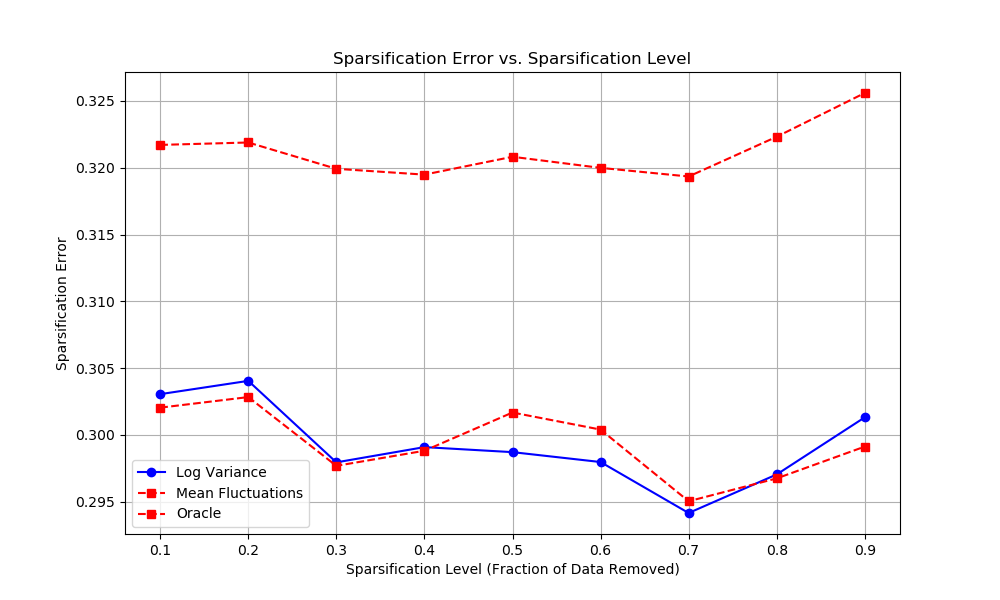
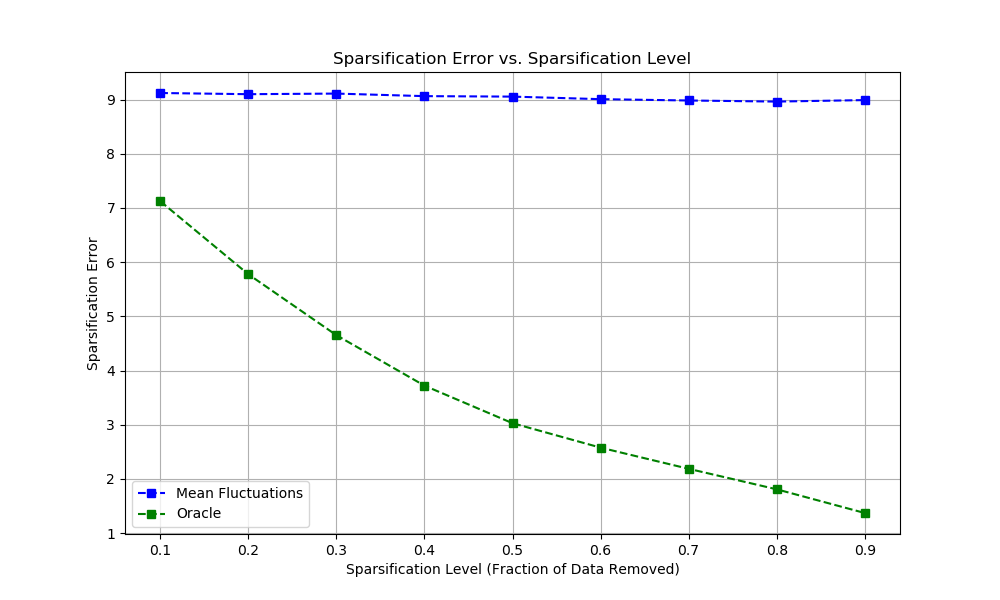
uncertainty through deviation between particles

diff --git a/sample/generate_w_motion_input.py b/sample/generate_w_motion_input.py
@@ -212,10 +212,7 @@ def main():
                 # log_variance = log_variance.view(-1, *log_variance.shape[2:]).permute(0, 2, 3, 1) # [bs, 21, 3, 196]
 
                 mean_fluctuations = mean_fluctuations.cpu().permute(0, 2, 3, 1).float() # [bs, 1, 196, 263]
-                uncertainty_factor_1 = compute_uncertainty_factor(mean_fluctuations, n_joints) # [bs, 22, 196]
-                # mean_fluctuations = mean_fluctuations[..., 4:(n_joints - 1) * 3 + 4] # [bs, 1, 196, 63]
-                # mean_fluctuations = mean_fluctuations.view(mean_fluctuations.shape[:-1] + (-1, 3)) # [bs, 1, 196, 21, 3]
-                # mean_fluctuations = mean_fluctuations.view(-1, *mean_fluctuations.shape[2:]).permute(0, 2, 3, 1) # [bs, 21, 3, 196]
+                uncertainty_factor_1 = compute_uncertainty_factor(mean_fluctuations, n_joints) # [bs, 1, 196, 22]
 
             input_motions_reshaped = data.dataset.t2m_dataset.inv_transform(input_motions.cpu().permute(0, 2, 3, 1)).float()
             input_motions_reshaped = recover_from_ric(input_motions_reshaped, n_joints)
@@ -267,20 +264,19 @@ def main():
 
         # Compute AUSE
         # if args.learning_var:
-        #     sparsification_errors_lg, oracle, sparsification_levels_lg = calculate_ause(per_joint_errors, log_variance, model_kwargs['y']['lengths'], 'sparsification_error_plot.png')
-        #     sparsification_errors_mf, oracle, sparsification_levels_mf = calculate_ause(per_joint_errors, mean_fluctuations, model_kwargs['y']['lengths'], 'sparsification_error_plot.png')
+        #     # sparsification_errors_lg, oracle, sparsification_levels_lg = calculate_ause(per_joint_errors, log_variance, model_kwargs['y']['lengths'], 'sparsification_error_plot.png')
+        #     sparsification_errors_mf, oracle, sparsification_levels_mf = calculate_ause(per_joint_errors, uncertainty_factor_1, model_kwargs['y']['lengths'], 'sparsification_error_plot.png')
         #     plt.figure(figsize=(10, 6))
-        #     plt.plot(sparsification_levels_lg, sparsification_errors_lg, marker='o', linestyle='-', color='b', label='Log Variance')
-        #     plt.plot(sparsification_levels_mf, sparsification_errors_mf, marker='s', linestyle='--', color='r', label='Mean Fluctuations')
-        #     plt.plot(sparsification_levels_lg, oracle, marker='s', linestyle='--', color='r', label='Oracle')
+        #     # plt.plot(sparsification_levels_lg, sparsification_errors_lg, marker='o', linestyle='-', color='b', label='Log Variance')
+        #     plt.plot(sparsification_levels_mf, sparsification_errors_mf, marker='s', linestyle='--', color='b', label='Mean Fluctuations')
+        #     plt.plot(sparsification_levels_mf, oracle, marker='s', linestyle='--', color='g', label='Oracle')
         #     plt.xlabel('Sparsification Level (Fraction of Data Removed)')
         #     plt.ylabel('Sparsification Error')
         #     plt.title('Sparsification Error vs. Sparsification Level')
         #     plt.legend()
         #     plt.grid(True)
-        #     plt.savefig('sparsification_error_plot.png')
+        #     plt.savefig('sparsification_error_plot1.png')
         #     plt.close()
-
 
         # exit()
 
@@ -307,15 +303,30 @@ def main():
             print(f'---> MPJPE at {time_ms} s = {avg_error*1000:.4f}')
     
     all_motions = np.concatenate(all_motions, axis=0) # [num_samples*num_repetitions, njoints, 3, seqlen]
-    all_motions = all_motions[:total_num_samples]  # [num_samples, njoints, 3, seqlen]
+    all_motions = all_motions[:total_num_samples]  # [num_samples*num_repetitions, njoints, 3, seqlen]
+    
+    # Compute uncertainty factor based on standard deviation between repetitions
+    all_motions_tensor = torch.from_numpy(all_motions)
+    uncertainty_particle = []
+    for sample_i in range(args.num_samples):
+        sample_motions = all_motions_tensor[sample_i::args.num_samples]  # Get all repetitions for this sample
+        std_dev = torch.std(sample_motions, dim=0, keepdim=True)  # Compute standard deviation across repetitions
+        std_dev = std_dev.repeat(args.num_repetitions, 1, 1, 1)  # [num_samples*num_repetitions, njoints, 3, seqlen]
+        uncertainty_particle.append(std_dev)
+    
+    uncertainty_particle = torch.stack(uncertainty_particle, dim=0)  # [num_samples, num_repetitions, njoints, 3, seqlen]
+    uncertainty_particle = uncertainty_particle.permute(1, 0, 2, 3, 4)  # [num_repetitions, num_samples, njoints, 3, seqlen]
+    uncertainty_particle = uncertainty_particle.reshape(-1, *uncertainty_particle.shape[2:])  # [num_samples*num_repetitions, njoints, 3, seqlen]
+    uncertainty_particle = uncertainty_particle.permute(0, 2, 3, 1)  # [num_samples*num_repetitions, 3, seqlen, njoints]
+    
     all_text = all_text[:total_num_samples]
     all_lengths = np.concatenate(all_lengths, axis=0)[:total_num_samples]
     if args.learning_var:
         all_variances = np.concatenate(all_variances, axis=0)
-        all_variances = all_variances[:total_num_samples] # [num_samples, njoints-1, 3, seqlen]
+        all_variances = all_variances[:total_num_samples] # [num_samples*num_repetitions, 1, seqlen, njoints]
         all_mean_fluctuations = np.concatenate(all_mean_fluctuations, axis=0)
-        all_mean_fluctuations = all_mean_fluctuations[:total_num_samples] # [num_samples, njoints-1, 3, seqlen]
-
+        all_mean_fluctuations = all_mean_fluctuations[:total_num_samples] # [num_samples*num_repetitions, 1, seqlen, njoints]
+        all_uncertainty_particle = uncertainty_particle.cpu().numpy()
     if os.path.exists(out_path):
         shutil.rmtree(out_path)
     os.makedirs(out_path)
@@ -324,7 +335,7 @@ def main():
     print(f"saving results file to [{npy_path}]")
     if args.learning_var:
         np.save(npy_path,
-            {'motion': all_motions, 'variances': all_variances, 'text': all_text, 'lengths': all_lengths,
+            {'motion': all_motions, 'variances': all_uncertainty_particle, 'text': all_text, 'lengths': all_lengths,
              'num_samples': args.num_samples, 'num_repetitions': args.num_repetitions})
     else:
         np.save(npy_path,
@@ -354,8 +365,17 @@ def main():
             input_motion_reshaped = input_motions_reshaped_np[sample_i].transpose(2, 0, 1)[:length]
             # print(f"motion shape: {motion.shape}") (196, 22, 3)
             if args.learning_var:
-                variance = all_variances[rep_i*args.batch_size + sample_i].transpose(2, 0, 1)[:length] # [seqlen, njoints-1, 3]
+                variance = all_variances[rep_i*args.batch_size + sample_i].transpose(2, 0, 1)[:length]  # [njoints, 1, seqlen]
+                # Apply smoothing to mean_fluctuation over time
+                window_size = 3  # Adjust this value to control the amount of smoothing
                 mean_fluctuation = all_mean_fluctuations[rep_i*args.batch_size + sample_i].transpose(2, 0, 1)[:length] # [seqlen, njoints-1, 3]
+                particle_uncertainty = all_uncertainty_particle[rep_i*args.batch_size + sample_i].transpose(2, 0, 1)[:length] # [seqlen, njoints, 3]
+                # mean_fluctuation_smoothed = np.zeros_like(mean_fluctuation)
+                # for i in range(mean_fluctuation.shape[0]):  # Iterate over joints
+                #     for j in range(mean_fluctuation.shape[1]):  # Iterate over dimensions
+                #         mean_fluctuation_smoothed[i, j, :] = np.convolve(mean_fluctuation[i, j, :], np.ones(window_size)/window_size, mode='same')
+                # mean_fluctuation = mean_fluctuation_smoothed
+
             save_file = sample_file_template.format(sample_i, rep_i)
             print(sample_print_template.format(caption, sample_i, rep_i, save_file))
             animation_save_path = os.path.join(out_path, save_file)
@@ -363,7 +383,7 @@ def main():
             assert motion.shape[0] == input_motion_reshaped.shape[0], f"Frame mismatch: joints has {motion.shape[0]} frames, gt_data has {input_motions_reshaped.shape[0]} frames."
             if args.learning_var:
                 # plot_3d_motion_with_gt(animation_save_path, skeleton, motion, dataset=args.dataset, variance=variance, gt_data=input_motion_reshaped, title=caption, fps=fps, emb_motion_len=args.emb_motion_len) #modified plot_3d_motion to include gt input motions
-                plot_3d_motion_with_gt(animation_save_path, skeleton, motion, dataset=args.dataset, variance=mean_fluctuation, gt_data=input_motion_reshaped, title=caption, fps=fps, emb_motion_len=args.emb_motion_len) #modified plot_3d_motion to include gt input motions
+                plot_3d_motion_with_gt(animation_save_path, skeleton, motion, dataset=args.dataset, variance=particle_uncertainty, gt_data=input_motion_reshaped, title=caption, fps=fps, emb_motion_len=args.emb_motion_len) #modified plot_3d_motion to include gt input motions
             else:
                 plot_3d_motion_with_gt(animation_save_path, skeleton, motion, dataset=args.dataset, gt_data=input_motion_reshaped, title=caption, fps=fps, emb_motion_len=args.emb_motion_len) #modified plot_3d_motion to include gt input motions
 

diff --git a/diffusion/gaussian_diffusion.py b/diffusion/gaussian_diffusion.py
@@ -17,6 +17,7 @@ from copy import deepcopy
 from diffusion.nn import mean_flat, sum_flat
 from diffusion.losses import normal_kl, discretized_gaussian_log_likelihood
 from data_loaders.humanml.scripts import motion_process
+from data_loaders.humanml.utils.uncertainty_factors import compute_relative_fluctuation, compute_fluctuation_duration, compute_mean_absolute_change, compute_max_change, compute_cumulative_variance
 
 def get_named_beta_schedule(schedule_name, num_diffusion_timesteps, scale_betas=1.):
     """
@@ -706,37 +707,47 @@ class GaussianDiffusion:
             if dump_steps is not None and i in dump_steps:
                 dump.append(deepcopy(sample["sample"]))
             final = sample
-            if i >= 20 and (i % 5 == 0 or i > 45):  # Track every 5th step from 20 to 45, and all steps from 45 onwards
+            if i >= 30 and i % 2 == 0:  # Track every 5th step from 20 to 45, and all steps from 45 onwards
                 means.append(sample["sample"].detach().cpu())
         if dump_steps is not None:
             return dump
         if self.model_var_type in [ModelVarType.LEARNED, ModelVarType.LEARNED_RANGE]:
             means = torch.stack(means, dim=0)  # Shape: [10, bs, 263, 1, 196]
 
-            # UNCOMMENT THIS TO PLOT MEAN EVOLUTION
-            means = means.cpu().permute(0, 1, 3, 4, 2).float() # [10, bs, 1, 196, 263]
-            means = means[..., 4:(22 - 1) * 3 + 4] # [10, bs, 1, 196, 63]
-            means = means.view(means.shape[:-1] + (-1, 3)) # [10, bs, 1, 196, 21, 3]
-            means = means.view(10, -1, *means.shape[3:]).permute(0, 1, 3, 4, 2) # [10, bs, 21, 3, 196]
-            means = means.mean(dim=3) # [10, bs, 21, 196]
-            means_frame_100 = means[:, :, :, 99]  # Shape: [10, bs, 21]
-            plt.figure(figsize=(12, 8))
-            for joint in range(21):
-                plt.plot(range(10), means_frame_100[:, 0, joint], label=f'Joint {joint}')
-            plt.xlabel('Diffusion Steps (40 to 50)')
-            plt.ylabel('Mean Value')
-            plt.title('Evolution of Mean Values for 21 Joints at Frame 100')
-            plt.legend(bbox_to_anchor=(1.05, 1), loc='upper left')
-            plt.tight_layout()
-            plot_path = 'mean_evolution_plot.png'
-            plt.savefig(plot_path)
-            plt.close()
-            exit()
+            # # Plot mean evolution
+            # means = means.cpu().permute(0, 1, 3, 4, 2).float() # [50, bs, 1, 196, 263]
+            # means = means[..., 4:(22 - 1) * 3 + 4] # [50, bs, 1, 196, 63]
+            # means = means.view(means.shape[:-1] + (-1, 3)) # [50, bs, 1, 196, 21, 3]
+            # means = means.view(50, -1, *means.shape[3:]).permute(0, 1, 3, 4, 2) # [50, bs, 21, 3, 196]
+            # means = means.mean(dim=3) # [50, bs, 21, 196]
+
+            # # Select last 20 steps and only even steps
+            # means = means[-20::2]
+
+            # plt.figure(figsize=(16, 12))
+            # selected_joints = [0, 10, 11, 12, 20]
+            # frames = [24, 49, 74, 99]  # Frames 25, 50, 75, 100 (0-indexed)
+            
+            # for i, frame in enumerate(frames):
+            #     plt.subplot(2, 2, i+1)
+            #     means_frame = means[:, 0, :, frame]  # Shape: [10, 21]
+                
+            #     for joint in selected_joints:
+            #         plt.plot(range(30, 50, 2), means_frame[:, joint], label=f'Joint {joint}')
+                
+            #     plt.xlabel('Diffusion Steps (30 to 50, even steps)')
+            #     plt.ylabel('Mean Value')
+            #     plt.title(f'Evolution of Mean Values for Selected Joints at Frame {frame+1}')
+            #     plt.legend()
+            
+            # plt.tight_layout()
+            # plot_path = 'mean_evolution_plot_selected_joints_multiple_frames.png'
+            # plt.savefig(plot_path)
+            # plt.close()
+            # exit()
 
             # Compute the standard deviation across the first dimension (time steps)
-            mean_fluctuations = torch.std(means, dim=0)  # Resulting shape: [bs, 263, 1, 196]
-            # print('mean_fluctuations', mean_fluctuations.shape) #([10, 263, 1, 196])
-            #keep track of the mean AND variance
+            mean_fluctuations = compute_cumulative_variance(means)
             return final["sample"], final["log_variance"], mean_fluctuations
         else:
             return final["sample"]

diff --git a/diffusion/losses.py b/diffusion/losses.py
@@ -13,19 +13,15 @@ def calculate_ause(per_joint_errors, uncertainty_factor, lengths, output_path, n
     Compute the Area Under Sparsification Error (AUSE) to assess the quality of the uncertainty factors.
 
     :param per_joint_errors: Tensor of per-joint errors. Shape: [bs, 196*22]
-    :param uncertainty_factor: Tensor of uncertainty factors. Shape: [bs, 21, 3, 196]
+    :param uncertainty_factor: Tensor of uncertainty factors. Shape: # [bs, 1, 196, 22]
     :param lengths: tensor of sequence actual length for each batch. Shape: [bs]
     :param n_bins: Number of bins to use for the AUSE calculation.
     """
-    B, nb_joints, _, nb_frames = uncertainty_factor.shape  # B=bs, nb_joints=21, nb_frames=196
-    
-    # Reduce uncertainty_factor over the 3D space dimension (x, y, z)
-    uncertainty_factor = uncertainty_factor.mean(dim=2)  # New shape: [bs, 21, 196]
-    uncertainty_factor = uncertainty_factor.permute(0, 2, 1)  # New shape: [bs, 196, 21]
+    B, _, nb_frames, nb_joints = uncertainty_factor.shape  # B=bs, nb_frames=196, nb_joints=22
 
-    per_joint_errors = per_joint_errors.view(B, nb_frames, nb_joints+1)  # Shape: [bs, 196, 22]
-    # Exclude the root joint (joint 0)
-    per_joint_errors = per_joint_errors[:, :, 1:]  # Shape: [bs, 196, 21]
+    uncertainty_factor = uncertainty_factor.squeeze(1)  # Shape: [bs, 196, 22]
+
+    per_joint_errors = per_joint_errors.view(B, nb_frames, nb_joints)  # Shape: [bs, 196, 22]
 
     # Find the shortest length in the batch
     shortest_length = lengths.min().item()
@@ -42,7 +38,7 @@ def calculate_ause(per_joint_errors, uncertainty_factor, lengths, output_path, n
     sorted_indices_by_uncertainty = uncertainty_factor.argsort()
     sorted_errors_by_uncertainty = per_joint_errors[sorted_indices_by_uncertainty]  # Sorted per-joint errors by uncertainty
     sorted_indices_by_error = per_joint_errors.argsort()
-    sorted_errors_by_error = uncertainty_factor[sorted_indices_by_error]  # Sorted per-joint errors by error  
+    sorted_errors_by_error = per_joint_errors[sorted_indices_by_error]  # Sorted per-joint errors by error  
 
     # Calculate the total error (mean of all per-joint errors)
     total_error = sorted_errors_by_uncertainty.mean().item()
@@ -59,15 +55,18 @@ def calculate_ause(per_joint_errors, uncertainty_factor, lengths, output_path, n
         
         sparsified_errors = sorted_errors_by_uncertainty[:threshold_index]  # Shape: [threshold_index]
         sparsified_error = sparsified_errors.mean().item()
+        # uncertainty_ration = (total_error - sparsified_error) / sparsified_error
 
         sparsified_errors_by_error = sorted_errors_by_error[:threshold_index]  # Shape: [threshold_index]
         sparsified_error_by_error = sparsified_errors_by_error.mean().item()
+        # error_ratio = (total_error - sparsified_error_by_error) / sparsified_error_by_error
 
-        # Calculate the sparsification error
-        sparsification_error = total_error - sparsified_error
-        # sparsification_errors.append(sparsification_error)
         sparsification_errors.append(sparsified_error)
         sparsification_errors_by_error.append(sparsified_error_by_error)
+
+        # sparsification_errors.append(uncertainty_ration)
+        # sparsification_errors_by_error.append(error_ratio)
+
         sparsification_levels.append(i/n_bins)
 
     return sparsification_errors, sparsification_errors_by_error, sparsification_levels

diff --git a/data_loaders/humanml/utils/uncertainty_factors.py b/data_loaders/humanml/utils/uncertainty_factors.py
@@ -1,0 +1,90 @@
+import torch
+
+def compute_mean_absolute_change(means):
+    """
+    Compute the mean absolute change across successive denoising steps.
+    
+    Args:
+        means (torch.Tensor): The mean values of shape [10, bs, 21, 196].
+        
+    Returns:
+        torch.Tensor: The mean absolute change, shape [bs, 21, 196].
+    """
+    # Compute the difference between successive denoising steps
+    changes = torch.abs(means[1:] - means[:-1])  # Shape: [9, bs, 21, 196]
+    
+    # Average the absolute changes across time steps
+    mean_absolute_change = changes.mean(dim=0)  # Shape: [bs, 21, 196]
+    return mean_absolute_change
+
+def compute_max_change(means):
+    """
+    Compute the maximum change across successive denoising steps.
+    
+    Args:
+        means (torch.Tensor): The mean values of shape [10, bs, 21, 196].
+        
+    Returns:
+        torch.Tensor: The maximum change, shape [bs, 21, 196].
+    """
+    # Compute the difference between successive denoising steps
+    changes = torch.abs(means[1:] - means[:-1])  # Shape: [9, bs, 21, 196]
+    
+    # Compute the maximum change across denoising steps
+    max_change = changes.max(dim=0)[0]  # Shape: [bs, 21, 196]
+    return max_change
+
+def compute_cumulative_variance(means):
+    """
+    Compute the cumulative variance across denoising steps.
+    
+    Args:
+        means (torch.Tensor): The mean values of shape [10, bs, 21, 196].
+        
+    Returns:
+        torch.Tensor: The cumulative variance, shape [bs, 21, 196].
+    """
+    # Compute the variance across the last denoising steps
+    cumulative_variance = torch.var(means, dim=0)  # Shape: [bs, 21, 196]
+    return cumulative_variance
+
+def compute_fluctuation_duration(means, threshold=0.05):
+    """
+    Compute the duration of fluctuations based on a threshold.
+    
+    Args:
+        means (torch.Tensor): The mean values of shape [10, bs, 21, 196].
+        threshold (float): The threshold value for significant fluctuations.
+        
+    Returns:
+        torch.Tensor: The duration of significant fluctuations, shape [bs, 21, 196].
+    """
+    # Compute the difference between successive denoising steps
+    changes = torch.abs(means[1:] - means[:-1])  # Shape: [9, bs, 21, 196]
+    
+    # Find where changes exceed a threshold
+    fluctuation_mask = changes > threshold
+    
+    # Count the number of steps where fluctuations exceed the threshold
+    fluctuation_duration = fluctuation_mask.sum(dim=0)  # Shape: [bs, 21, 196]
+    return fluctuation_duration
+
+def compute_relative_fluctuation(means):
+    """
+    Compute the relative fluctuation (percentage change) across denoising steps.
+    
+    Args:
+        means (torch.Tensor): The mean values of shape [10, bs, 21, 196].
+        
+    Returns:
+        torch.Tensor: The relative fluctuation, shape [bs, 21, 196].
+    """
+    # Compute the difference between successive denoising steps
+    changes = torch.abs(means[1:] - means[:-1])  # Shape: [9, bs, 21, 196]
+    
+    # Normalize the change by the previous step to get relative change
+    relative_fluctuation = changes / torch.abs(means[:-1] + 1e-6)  # Avoid division by zero
+    
+    # Compute the average relative fluctuation
+    mean_relative_fluctuation = relative_fluctuation.mean(dim=0)  # Shape: [bs, 21, 196]
+    return mean_relative_fluctuation

diff --git a/data_loaders/humanml/utils/plot_script.py b/data_loaders/humanml/utils/plot_script.py
@@ -431,7 +431,7 @@ def plot_3d_motion_with_gt(save_path, kinematic_tree, joints, title, dataset, va
                 joint_position = data[index, joint_idx]
                 # joint_variance = np.exp(0.5*np.mean(variance[index, joint_idx]))
                 # joint_variance = np.exp(0.5*variance[joint_idx, 0, index])
-                joint_variance = 0.3*variance[joint_idx, 0, index]
+                joint_variance = 10*np.mean(variance[joint_idx, :, index])
                 radius = joint_variance / 3
                 sphere = draw_sphere(joint_position, radius, color='c', alpha=0.1)
                 spheres.append(sphere)

diff --git a/data_loaders/humanml/data/dataset.py b/data_loaders/humanml/data/dataset.py
@@ -290,6 +290,9 @@ class Text2MotionDatasetV2(data.Dataset):
     def inv_transform(self, data):
         return data * self.std + self.mean
 
+    def inv_transform_var(self, data):
+        return data * self.std
+
     def __len__(self):
         return len(self.data_dict) - self.pointer
 
